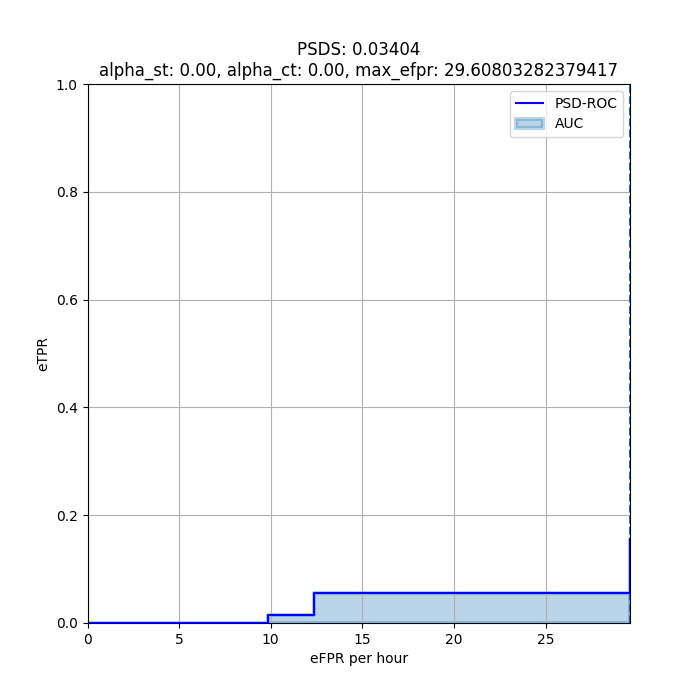
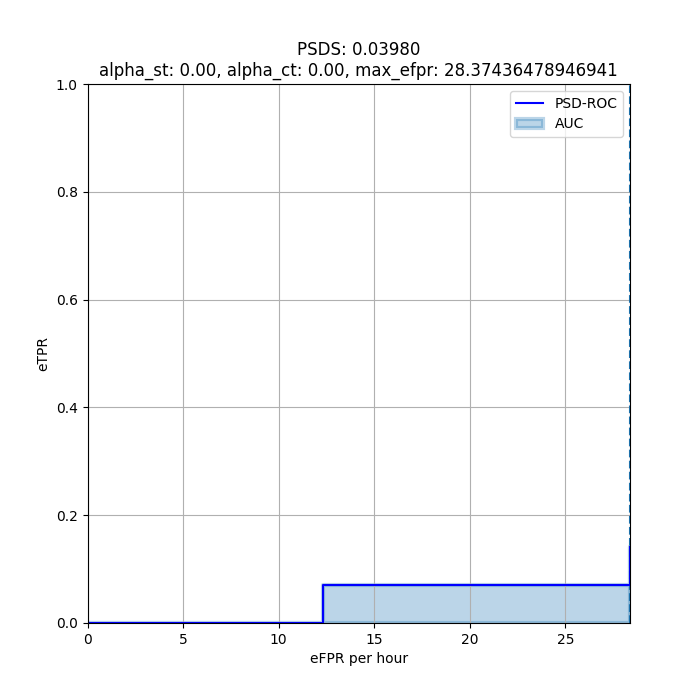
Fixed plots and default config

diff --git a/src/config.py b/src/config.py
@@ -43,9 +43,9 @@ default_model_weights_path = os.path.join(
 # Extra_eval and retrain_model require re-creating features.
 
 retrain_model = False  # Train model from scratch (default settings) or load default baseline
-predict_dev = False  # To control whether to create new predictions over dev A, dev B
+predict_dev = True  # To control whether to create new predictions over dev A, dev B
 extra_eval = True  # Perform evaluation over addictional feature metrics
-predict_test = True  # Perform prediction over data in /data/audio/test/
+predict_test = False  # Perform prediction over data in /data/audio/test/
 
 
 # Calculating window size based on desired min duration (sample chunks)

diff --git a/src/run_baseline.py b/src/run_baseline.py
@@ -169,9 +169,9 @@ if config.predict_dev:
 
 # Calculate challenge metrics
     do_eval("./data/predictions/dev/a", "./data/labels/dev/a",
-     filename = os.path.join(config.plot_dir, model_name + "_dev_a.png"))
+     filename = os.path.join(config.plot_dir, model_name + "_psd_dev_a.png"))
     do_eval("./data/predictions/dev/b", "./data/labels/dev/b",
-     filename = os.path.join(config.plot_dir, model_name + "_dev_b.png"))
+     filename = os.path.join(config.plot_dir, model_name + "_psd_dev_b.png"))
 
 
 if config.predict_test:

diff --git a/src/evaluate.py b/src/evaluate.py
@@ -168,10 +168,11 @@ def plot_roc(name, labels, predictions, roc_score, filename, **kwargs):
 
 def plot_pr(name, labels, predictions, filename):
     # Plot precision-recall curves
-
+    
     area = average_precision_score(labels, predictions)
     print("PR-AUC: ", area)
     precision, recall, _ = precision_recall_curve(labels, predictions)
+    plt.figure(figsize=(4, 4))
     plt.plot(recall, precision)
     plt.title("AUC={0:0.4f}".format(area))
     plt.xlabel("Recall")
